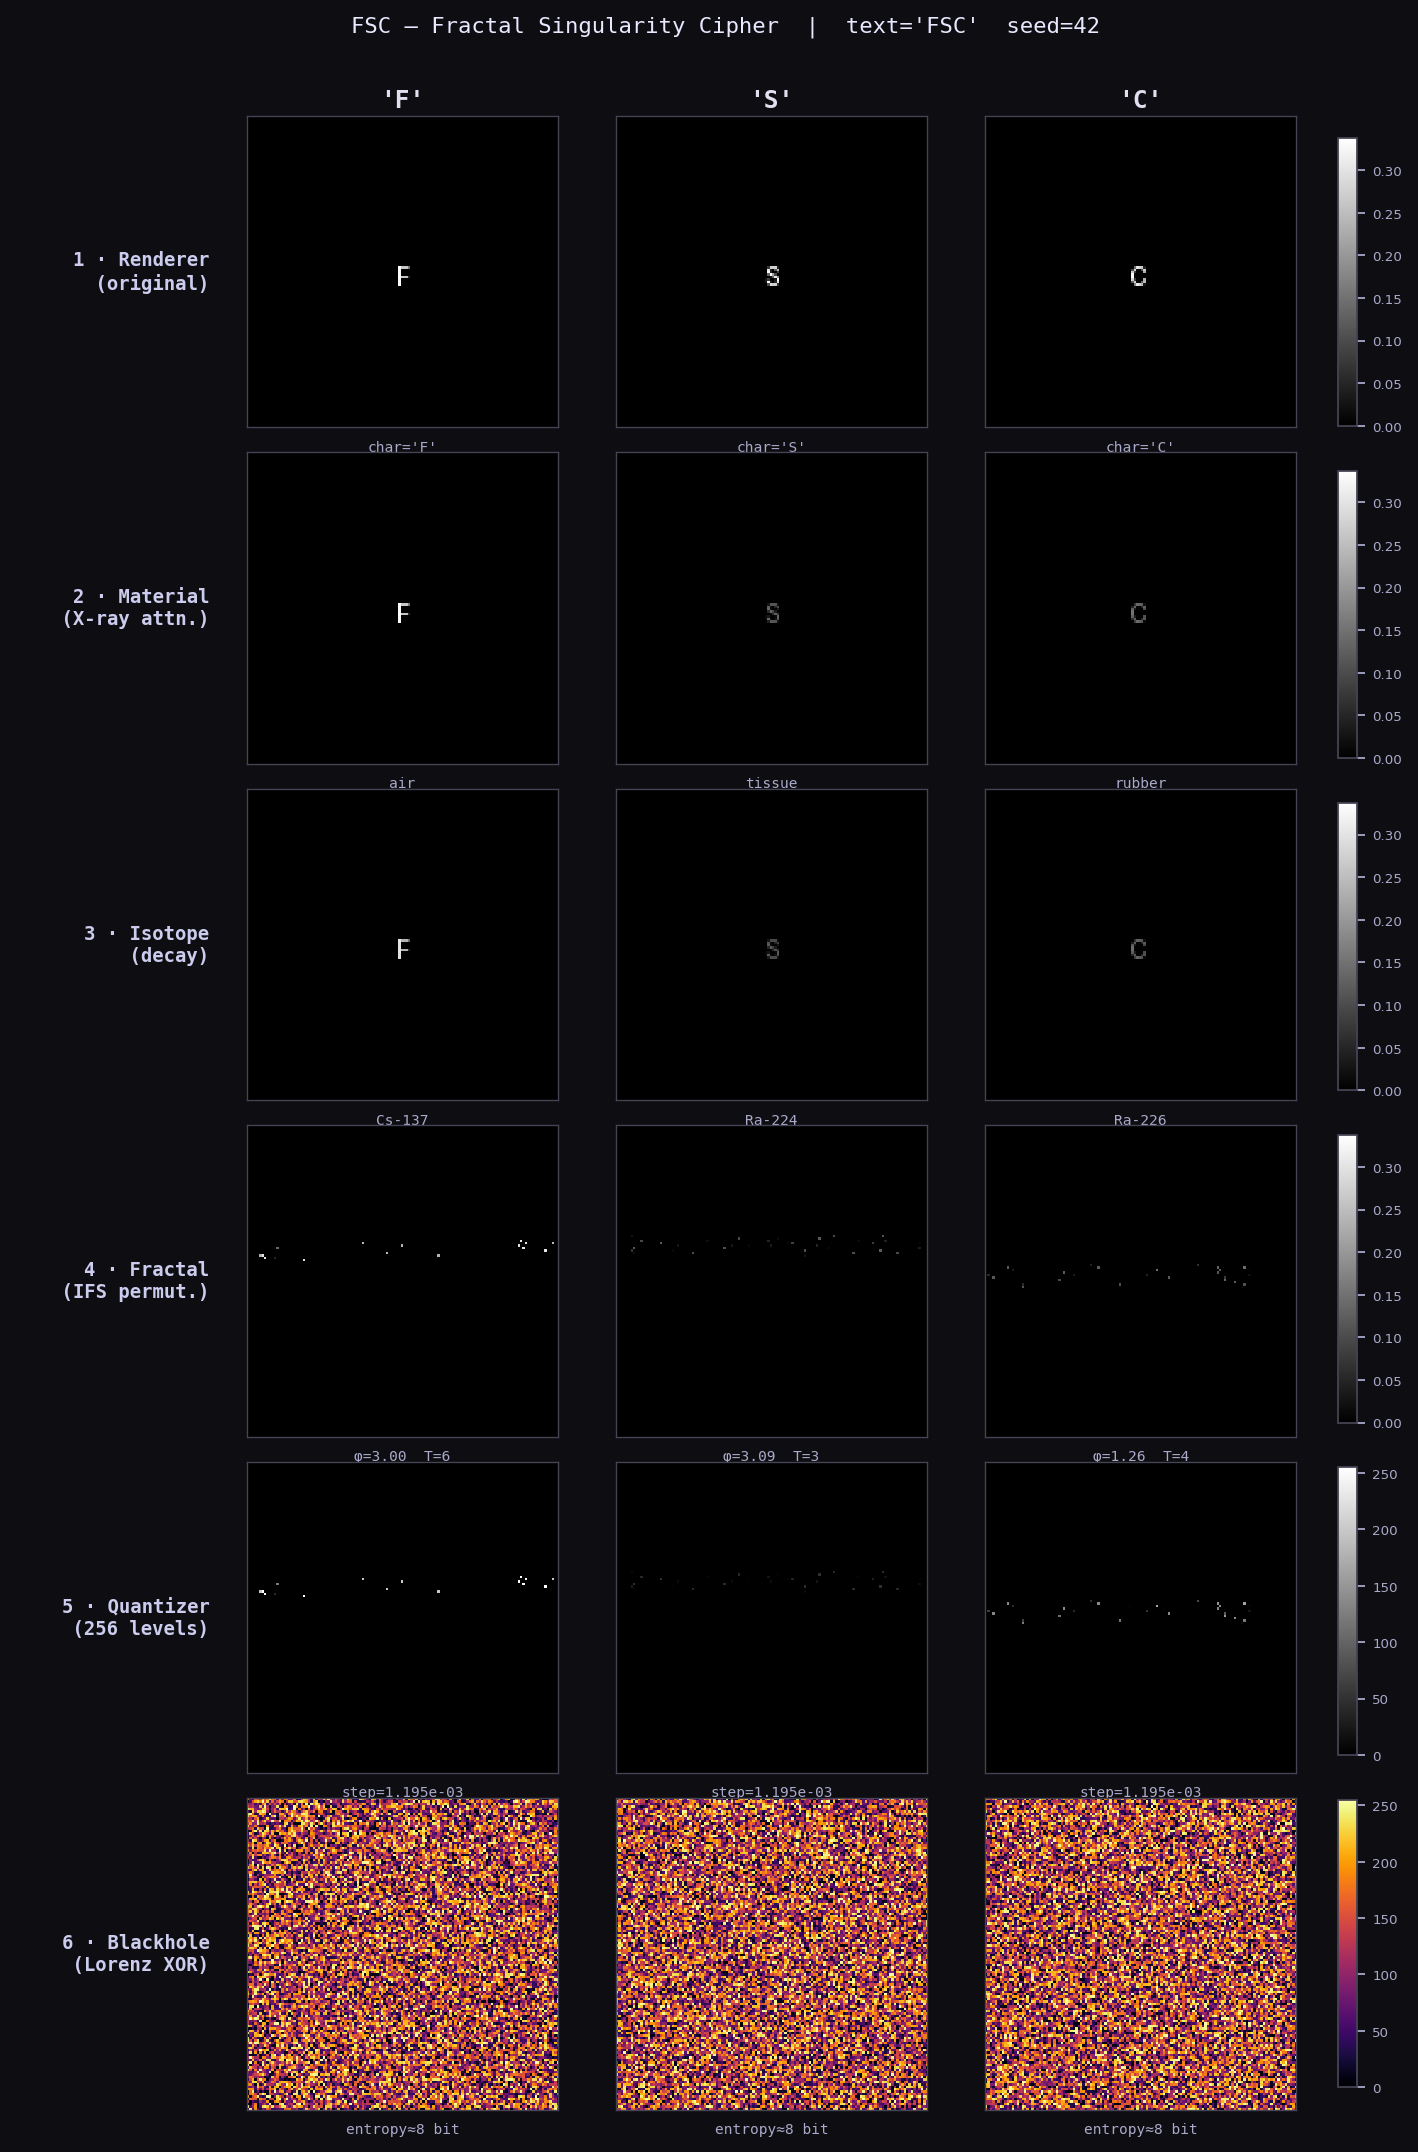
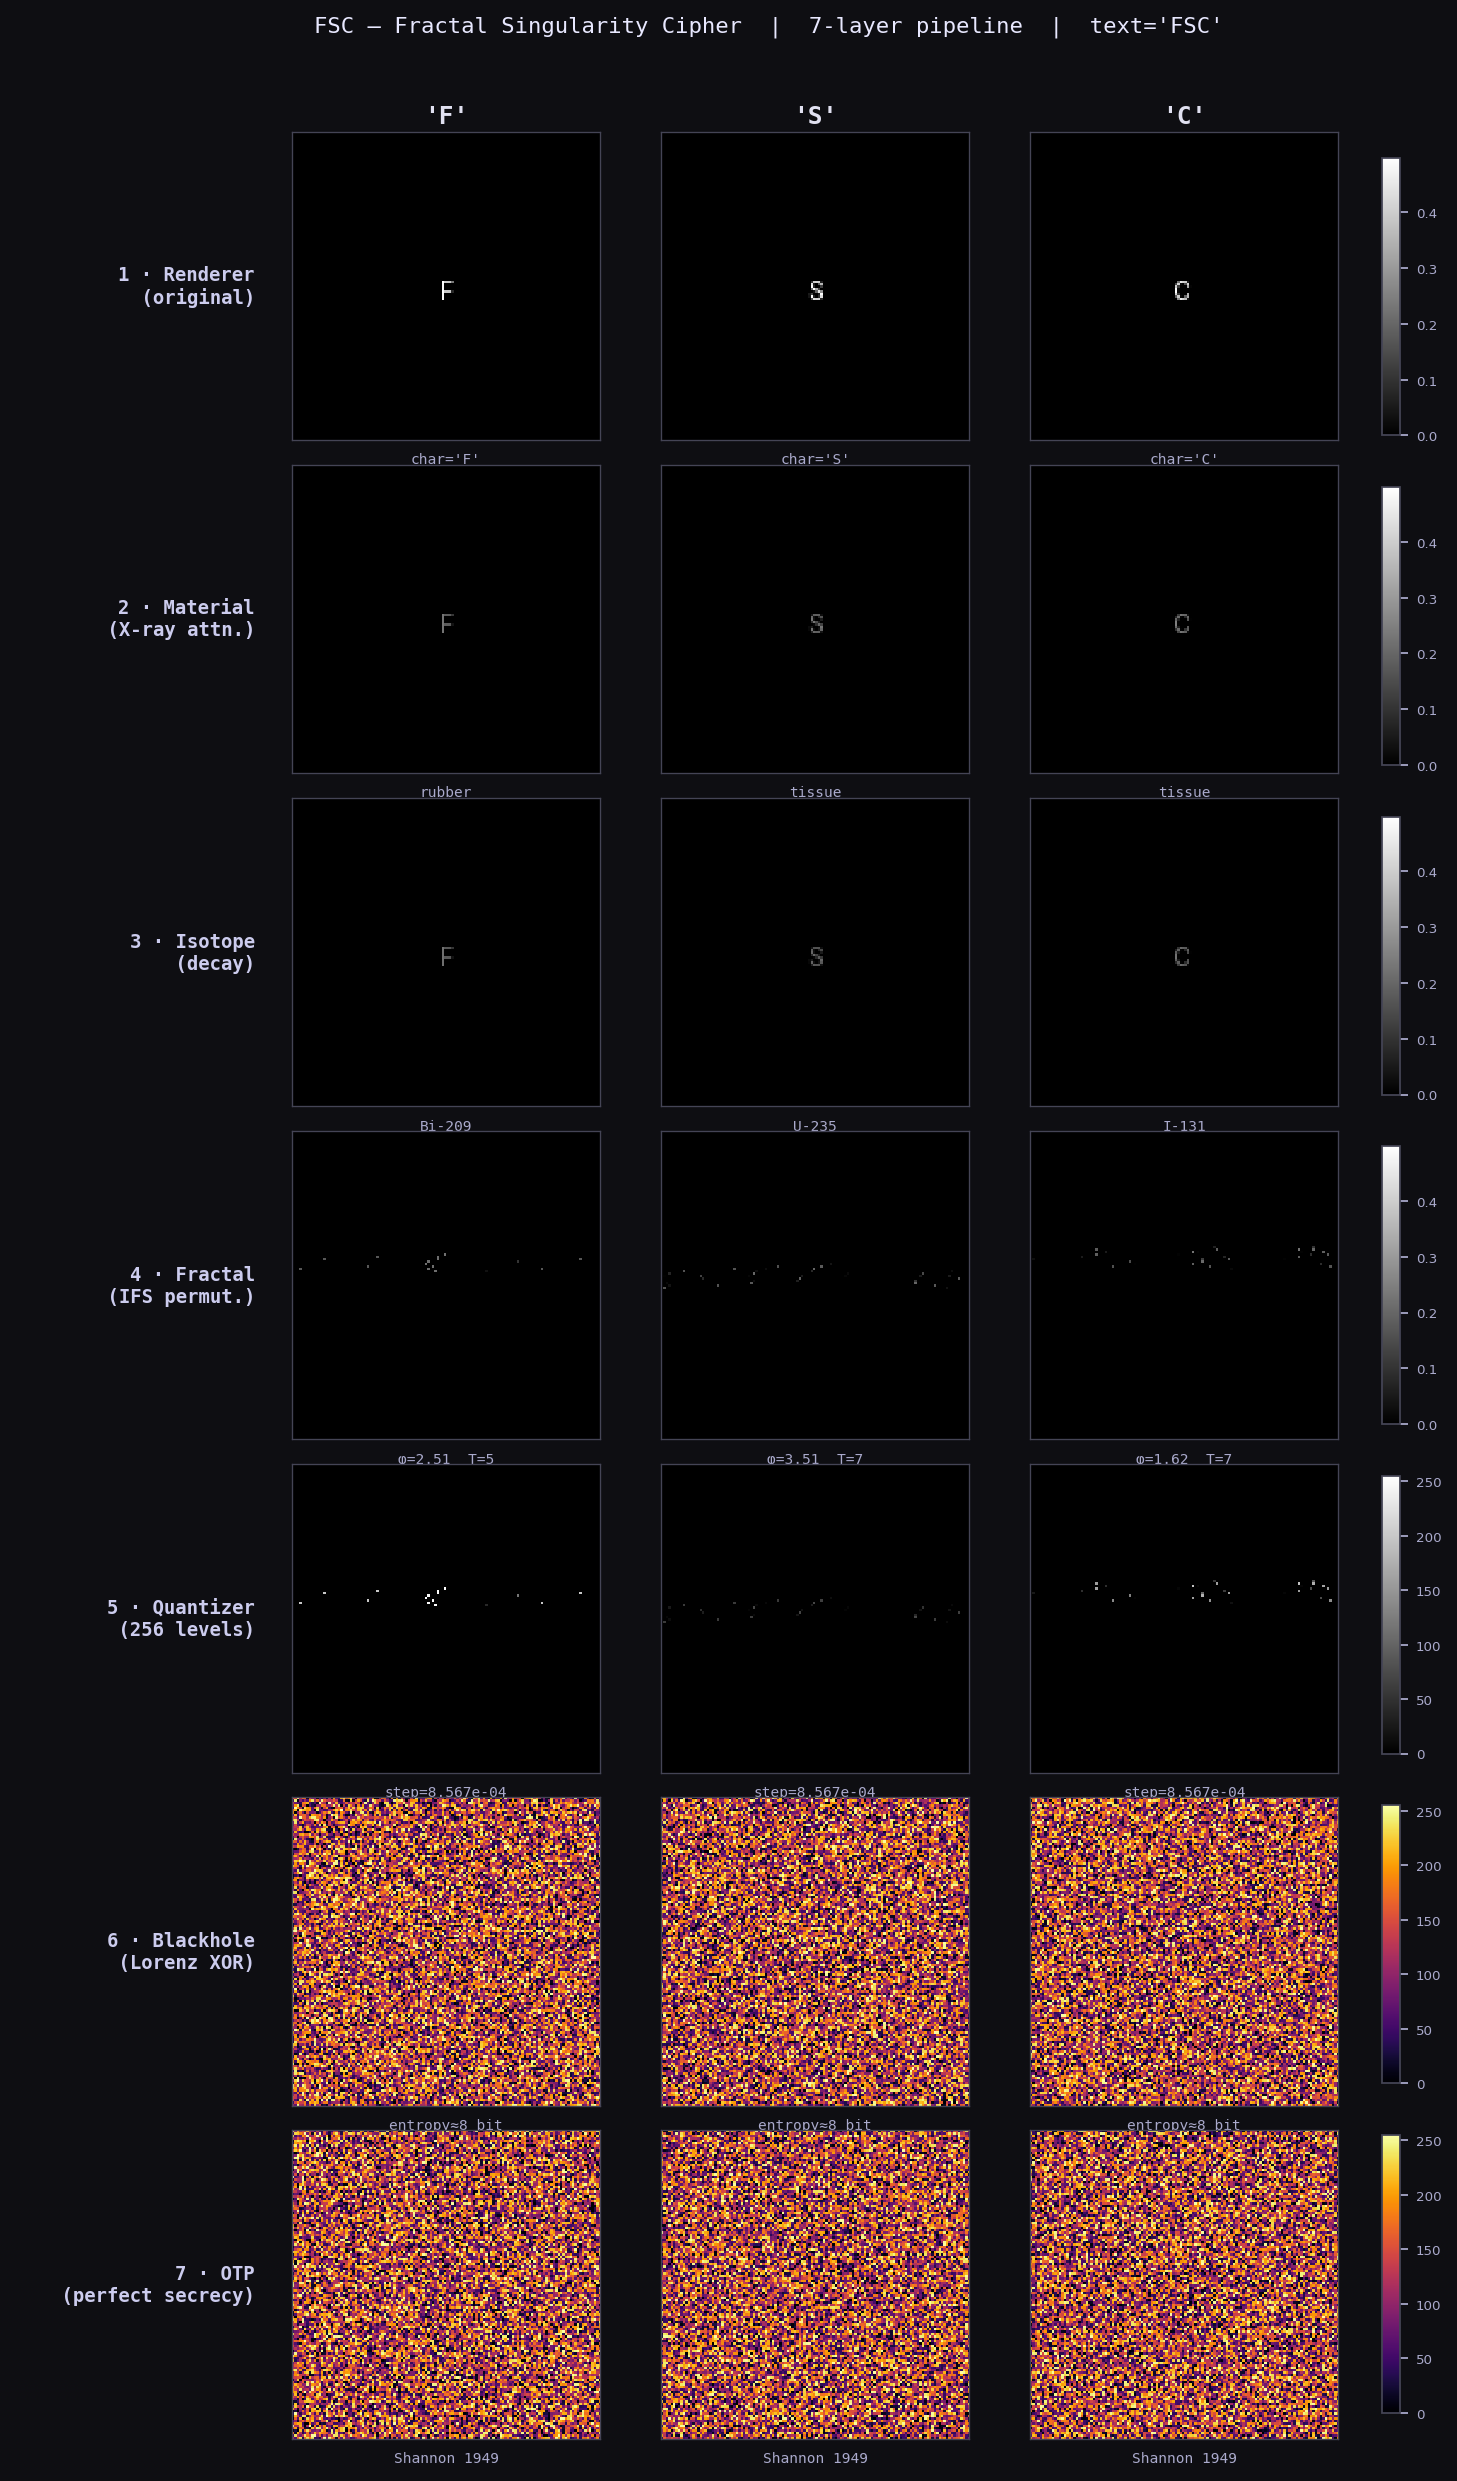
polish: complete 7-layer README, visualizer, and demo
- README: OTP row in architecture table and pipeline ASCII, 7-layer project
  structure tree, OTP pad size metric row, fix visual description to 7 rows
- viz/visualizer.py: add Row 7 OTP (Shannon 1949), N_ROWS=7, updated suptitle,
  fixed deprecated master_seed in __main__; regenerate fsc_layers.png
- demo/app.py: 7-layer sidebar caption, OTP row, 4th metric (OTP pad kB),
  spinner text, cipher → otp_out, fix master_key bytes conversion

diff --git a/viz/visualizer.py b/viz/visualizer.py
@@ -10,10 +10,11 @@ Row layout (one column per character):
   3  Isotope     — after radioactive decay (further darkening)
   4  Fractal     — after IFS pixel permutation (scrambled)
   5  Quantizer   — Planck-discretized uint16 → displayed as grayscale
-  6  Blackhole   — Lorenz XOR ciphertext (should look like noise)
+  6  Blackhole   — Lorenz XOR ciphertext (uniform noise)
+  7  OTP         — One-Time Pad XOR (information-theoretic perfect secrecy)
 
 Rows 1–4 share the same vmax (renderer max) so progressive darkening
-across layers is visually apparent. Rows 5–6 use [0, 255].
+across layers is visually apparent. Rows 5–7 use [0, 255].
 """
 
 import numpy as np
@@ -35,7 +36,7 @@ def _row_label(ax, text: str, fontsize: int = 9):
 
 def visualize(enc_state: dict, save_path: str = "fsc_layers.png") -> str:
     """
-    Build and save the 6-row layer figure.
+    Build and save the 7-row layer figure.
 
     Parameters
     ----------
@@ -55,9 +56,10 @@ def visualize(enc_state: dict, save_path: str = "fsc_layers.png") -> str:
     arr_isotope   = enc_state["isotope_out"]["decayed"]
     arr_fractal   = enc_state["fractal_out"]["transformed"]
 
-    # integer layers (rows 5–6)
+    # integer layers (rows 5–7)
     arr_quantizer = enc_state["quant_out"]["quantized"].astype(np.float32)   # uint16 → float
     arr_blackhole = enc_state["bh_out"]["cipher"].astype(np.float32)         # uint8  → float
+    arr_otp       = enc_state["otp_out"].astype(np.float32)                  # uint8  → float
 
     # ── per-column vmax for float rows ───────────────────────────────────
     # Each column (character) is normalised to its own renderer max so the
@@ -86,7 +88,7 @@ def visualize(enc_state: dict, save_path: str = "fsc_layers.png") -> str:
         return f"φ={fp.phi_angle:.2f}  T={fp.n_transforms}"
 
     # ── figure layout ─────────────────────────────────────────────────────
-    N_ROWS   = 6
+    N_ROWS   = 7
     FIG_W    = max(8.0, n * 2.4 + 2.5)
     FIG_H    = N_ROWS * 2.2 + 0.8
     CMAP_F   = "gray"           # float layers
@@ -161,6 +163,10 @@ def visualize(enc_state: dict, save_path: str = "fsc_layers.png") -> str:
         (arr_blackhole, 255.0, CMAP_I,
          "6 · Blackhole\n    (Lorenz XOR)",
          lambda i: f"entropy≈8 bit"),
+
+        (arr_otp,       255.0, CMAP_I,
+         "7 · OTP\n    (perfect secrecy)",
+         lambda i: f"Shannon 1949"),
     ]
 
     # ── draw all cells ────────────────────────────────────────────────────
@@ -191,7 +197,7 @@ def visualize(enc_state: dict, save_path: str = "fsc_layers.png") -> str:
 
     # ── figure title ──────────────────────────────────────────────────────
     fig.suptitle(
-        f"FSC — Fractal Singularity Cipher  |  text={text!r}  seed={key.master_seed}",
+        f"FSC — Fractal Singularity Cipher  |  7-layer pipeline  |  text={text!r}",
         fontsize=10, color="#e8e8ff", fontfamily="monospace",
         y=0.975,
     )
@@ -210,7 +216,7 @@ if __name__ == "__main__":
     from core.pipeline import encrypt
 
     text = sys.argv[1] if len(sys.argv) > 1 else "FSC"
-    key  = generate(text, master_seed=42)
+    key  = generate(text)
     enc  = encrypt(text, key)
     out  = visualize(enc, "fsc_layers.png")
     print(f"Saved: {out}")

diff --git a/demo/app.py b/demo/app.py
@@ -54,7 +54,7 @@ def _hex_dump(data: np.ndarray, n: int = 256, cols: int = 16) -> str:
 
 
 def _run_encrypt(text: str, seed: int, canvas: int, planck: int) -> dict:
-    key = generate(text, master_seed=seed, canvas_size=canvas, planck_resolution=planck)
+    key = generate(text, master_key=seed.to_bytes(32, 'big'), canvas_size=canvas, planck_resolution=planck)
     t0  = time.perf_counter()
     enc = encrypt(text, key)
     enc["_t_ms"] = (time.perf_counter() - t0) * 1000
@@ -79,7 +79,7 @@ with st.sidebar:
 
     st.divider()
     st.caption("""
-**6 encryption layers**
+**7 encryption layers**
 
 `1` Renderer — vector geometry
 `2` Material — Beer-Lambert X-ray
@@ -87,14 +87,15 @@ with st.sidebar:
 `4` Fractal — IFS φ-permutation
 `5` Quantizer — Planck discretize
 `6` Blackhole — Lorenz XOR
+`7` OTP — perfect secrecy
 """)
 
 
 # ── main title ────────────────────────────────────────────────────────────────
 
 st.title("FSC — Fractal Singularity Cipher")
-st.caption("A multi-layer cryptographic proof-of-concept combining fractal geometry, "
-           "material physics, isotope decay, and Lorenz chaos.")
+st.caption("A 7-layer cryptographic proof-of-concept combining fractal geometry, "
+           "material physics, isotope decay, Lorenz chaos, and a One-Time Pad.")
 
 
 # ── input validation ──────────────────────────────────────────────────────────
@@ -107,7 +108,7 @@ if encrypt_btn:
         st.error("Message must be ≤ 30 characters.")
         st.stop()
 
-    with st.spinner(f"Running 6-layer pipeline on {len(msg)} characters…"):
+    with st.spinner(f"Running 7-layer pipeline on {len(msg)} characters…"):
         enc = _run_encrypt(msg.strip(), int(seed), int(canvas), int(planck))
     st.session_state["enc"] = enc
 
@@ -121,7 +122,7 @@ enc    = st.session_state["enc"]
 text   = enc["text"]
 key    = enc["key"]
 qp     = enc["quant_params"]
-cipher = enc["bh_out"]["cipher"]
+cipher = enc["otp_out"]
 t_ms   = enc["_t_ms"]
 
 
@@ -135,7 +136,7 @@ with st.spinner("Rendering layer visualization…"):
     visualize(enc, save_path=tmp.name)
 
 st.image(tmp.name, use_container_width=True,
-         caption=f"FSC encryption layers — text={text!r}  seed={key.master_seed}")
+         caption=f"FSC 7-layer encryption — text={text!r}")
 try:
     os.unlink(tmp.name)
 except OSError:
@@ -146,10 +147,11 @@ except OSError:
 # 2. Metrics
 # ─────────────────────────────────────────────────────────────────────────────
 
-c1, c2, c3 = st.columns(3)
+c1, c2, c3, c4 = st.columns(4)
 c1.metric("Encrypt time", f"{t_ms:.1f} ms")
 c2.metric("Entropy", f"{_entropy(cipher):.3f} / 8.000 bit")
 c3.metric("Ciphertext", f"{cipher.size:,} bytes")
+c4.metric("OTP pad", f"{key.otp_pad_kb:.1f} kB")
 
 
 # ─────────────────────────────────────────────────────────────────────────────

diff --git a/README.md b/README.md
@@ -1,6 +1,6 @@
 # FSC — Fractal Singularity Cipher
 
-**A multi-domain proof-of-concept cipher that encrypts text through six sequential physical transformations.**
+**A multi-domain proof-of-concept cipher that encrypts text through seven sequential physical transformations.**
 
 ![License: MIT](https://img.shields.io/badge/License-MIT-blue.svg)
 ![Python 3.10+](https://img.shields.io/badge/Python-3.10%2B-3776AB?logo=python&logoColor=white)
@@ -10,7 +10,7 @@
 
 ## Overview
 
-FSC is a research-grade cryptographic proof-of-concept that encodes plaintext by passing it through six physically-motivated transformation layers: typographic rendering, X-ray material attenuation, radioactive isotope decay, iterated function system pixel permutation, Planck-scale quantization, and Lorenz chaotic stream XOR. Each layer draws on real physical equations — Beer-Lambert, nuclear decay kinetics, and the Lorenz attractor — to produce a ciphertext that visually resembles white noise and achieves near-ideal byte entropy. FSC is **not** production cryptography; it is an exploration of what encryption looks like when designed around the mathematical structure of physical phenomena rather than classical number theory.
+FSC is a research-grade cryptographic proof-of-concept that encodes plaintext by passing it through seven physically-motivated transformation layers: typographic rendering, X-ray material attenuation, radioactive isotope decay, iterated function system pixel permutation, Planck-scale quantization, Lorenz chaotic stream XOR, and a One-Time Pad. The first six layers draw on real physical equations — Beer-Lambert, nuclear decay kinetics, and the Lorenz attractor — to produce a ciphertext that visually resembles white noise and achieves near-ideal byte entropy. The final OTP layer provides Shannon information-theoretic perfect secrecy. FSC is **not** production cryptography; it is an exploration of what encryption looks like when designed around the mathematical structure of physical phenomena rather than classical number theory.
 
 ---
 
@@ -24,8 +24,9 @@ FSC is a research-grade cryptographic proof-of-concept that encodes plaintext by
 | 4 | **Fractal** | `core/fractal.py` | IFS pixel permutation weighted by golden ratio φ = 1.6180… |
 | 5 | **Quantizer** | `core/quantizer.py` | Uniform discretization to N Planck-pixel levels |
 | 6 | **Blackhole** | `core/blackhole.py` | Lorenz stream XOR — σ = 10, ρ = 28, β = 8/3, RK4 integration |
+| 7 | **OTP** | `core/otp.py` | XOR with truly random pad · Shannon 1949 · information-theoretic security |
 
-The encryption pipeline is fully invertible (layers 1–5 are exact or near-exact; layer 6 is self-inverse by XOR). Decryption applies the inverse of each layer in reverse order given the key.
+The encryption pipeline is fully invertible (layers 1–5 are exact or near-exact; layers 6–7 are self-inverse by XOR). Decryption applies the inverse of each layer in reverse order given the key.
 
 ```
 plaintext
@@ -36,6 +37,7 @@ plaintext
     ▼  [4] Fractal     pixel permutation via IFS orbit scores × φ^k
     ▼  [5] Quantizer   float → uint8 levels  [0, N−1]
     ▼  [6] Blackhole   XOR with Lorenz keystream from SHAKE256(lorenz_init ∥ nonce)
+    ▼  [7] OTP         XOR with pre-shared random pad  (n × H × W bytes)
     ▼  [auth]  HMAC-SHA256 prefix + random padding to 256-byte block boundary
     │
 ciphertext  (authenticated bytes, entropy ≈ 8.000 bit/byte)
@@ -52,6 +54,7 @@ ciphertext  (authenticated bytes, entropy ≈ 8.000 bit/byte)
 | Nonce divergence (same lorenz_init, different 128-bit nonce) | **99.5 % keystream divergence** |
 | Round-trip reconstruction error | **< 1 % of signal range** |
 | Encrypt time | **~100 ms / 3 chars @ 128×128 canvas** |
+| OTP pad (11 chars @ 128×128) | **180 KB** |
 
 ---
 
@@ -59,7 +62,7 @@ ciphertext  (authenticated bytes, entropy ≈ 8.000 bit/byte)
 
 ![FSC encryption layers](fsc_layers.png)
 
-Each column is one character. Left to right: the pixel structure of the rendered glyph survives X-ray attenuation and isotope decay (rows 1–3), is spatially destroyed by the IFS permutation (row 4), quantized (row 5), and finally XOR-masked into uniform noise (row 6).
+Each column is one character. Left to right: the pixel structure of the rendered glyph survives X-ray attenuation and isotope decay (rows 1–3), is spatially destroyed by the IFS permutation (row 4), quantized (row 5), XOR-masked by the Lorenz stream into uniform noise (row 6), and finally XOR-masked again by the OTP (row 7).
 
 ---
 
@@ -168,17 +171,20 @@ fsc-cipher/
 │   ├── fractal.py         # Layer 4 — IFS φ-weighted pixel permutation
 │   ├── quantizer.py       # Layer 5 — Planck-pixel uniform quantization
 │   ├── blackhole.py       # Layer 6 — Lorenz RK4 stream XOR
-│   └── pipeline.py        # Orchestrates all 6 layers, encrypt + decrypt
+│   ├── otp.py             # Layer 7 — One-Time Pad (Shannon perfect secrecy)
+│   └── pipeline.py        # Orchestrates all 7 layers, encrypt + decrypt
 ├── keys/
 │   └── keygen.py          # FSCKey / CharKey generation from master seed
 ├── viz/
-│   └── visualizer.py      # Matplotlib 6-row layer figure → PNG
+│   └── visualizer.py      # Matplotlib 7-row layer figure → PNG
 ├── demo/
 │   └── app.py             # Streamlit interactive demo
+├── docs/
+│   └── FSC_paper.md       # Academic paper (arXiv cs.CR style)
 ├── tests/
-│   ├── test_pipeline.py   # 6-layer round-trip test with per-layer error budget
+│   ├── test_pipeline.py   # 7-layer round-trip test with per-layer error budget
 │   └── test_app_logic.py  # Dry-run of demo helpers without Streamlit runtime
-├── fsc_layers.png         # Example visualization (text="FSC", seed=42)
+├── fsc_layers.png         # Example visualization (text="FSC", 7 layers)
 ├── requirements.txt
 └── README.md
 ```